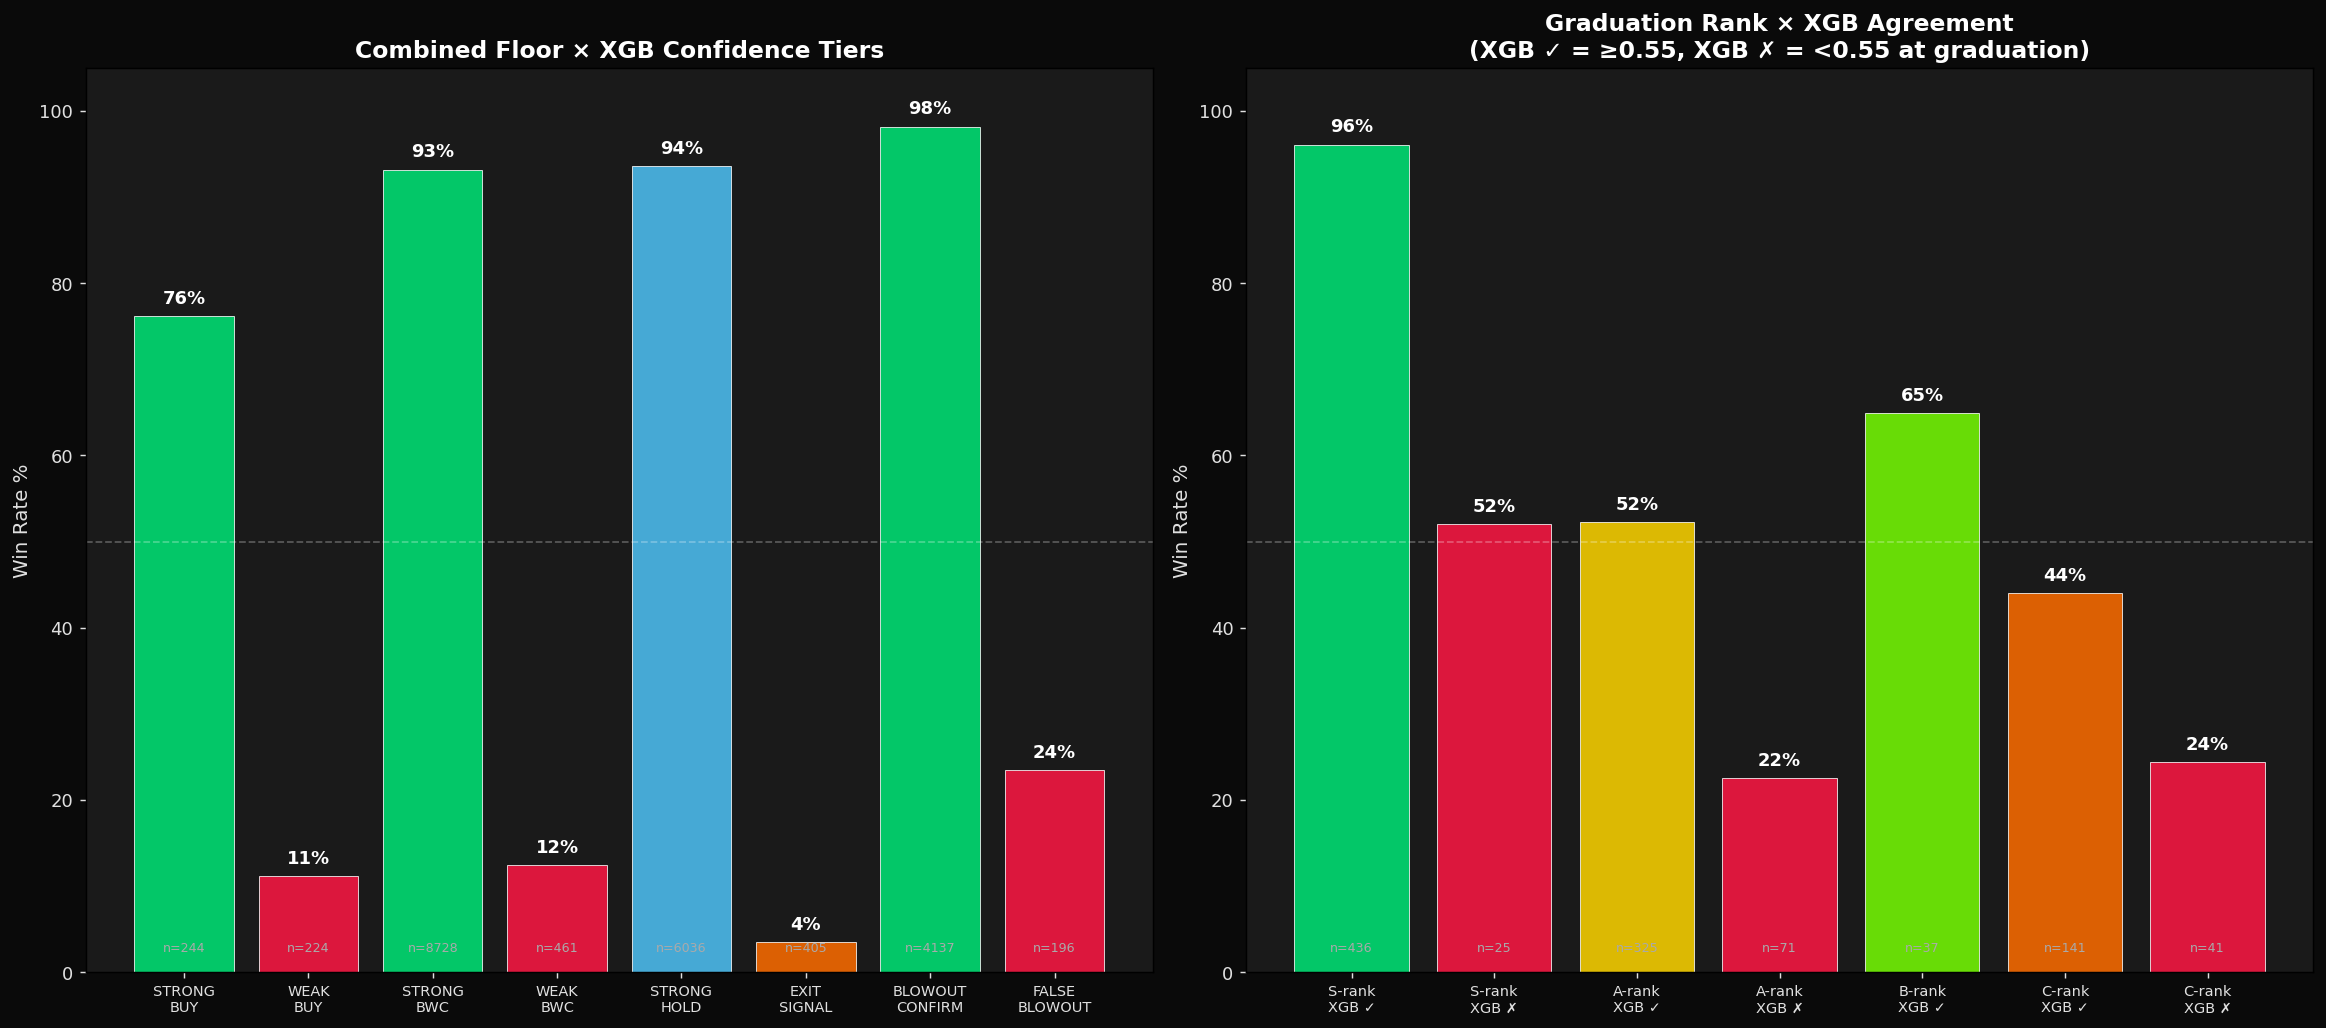
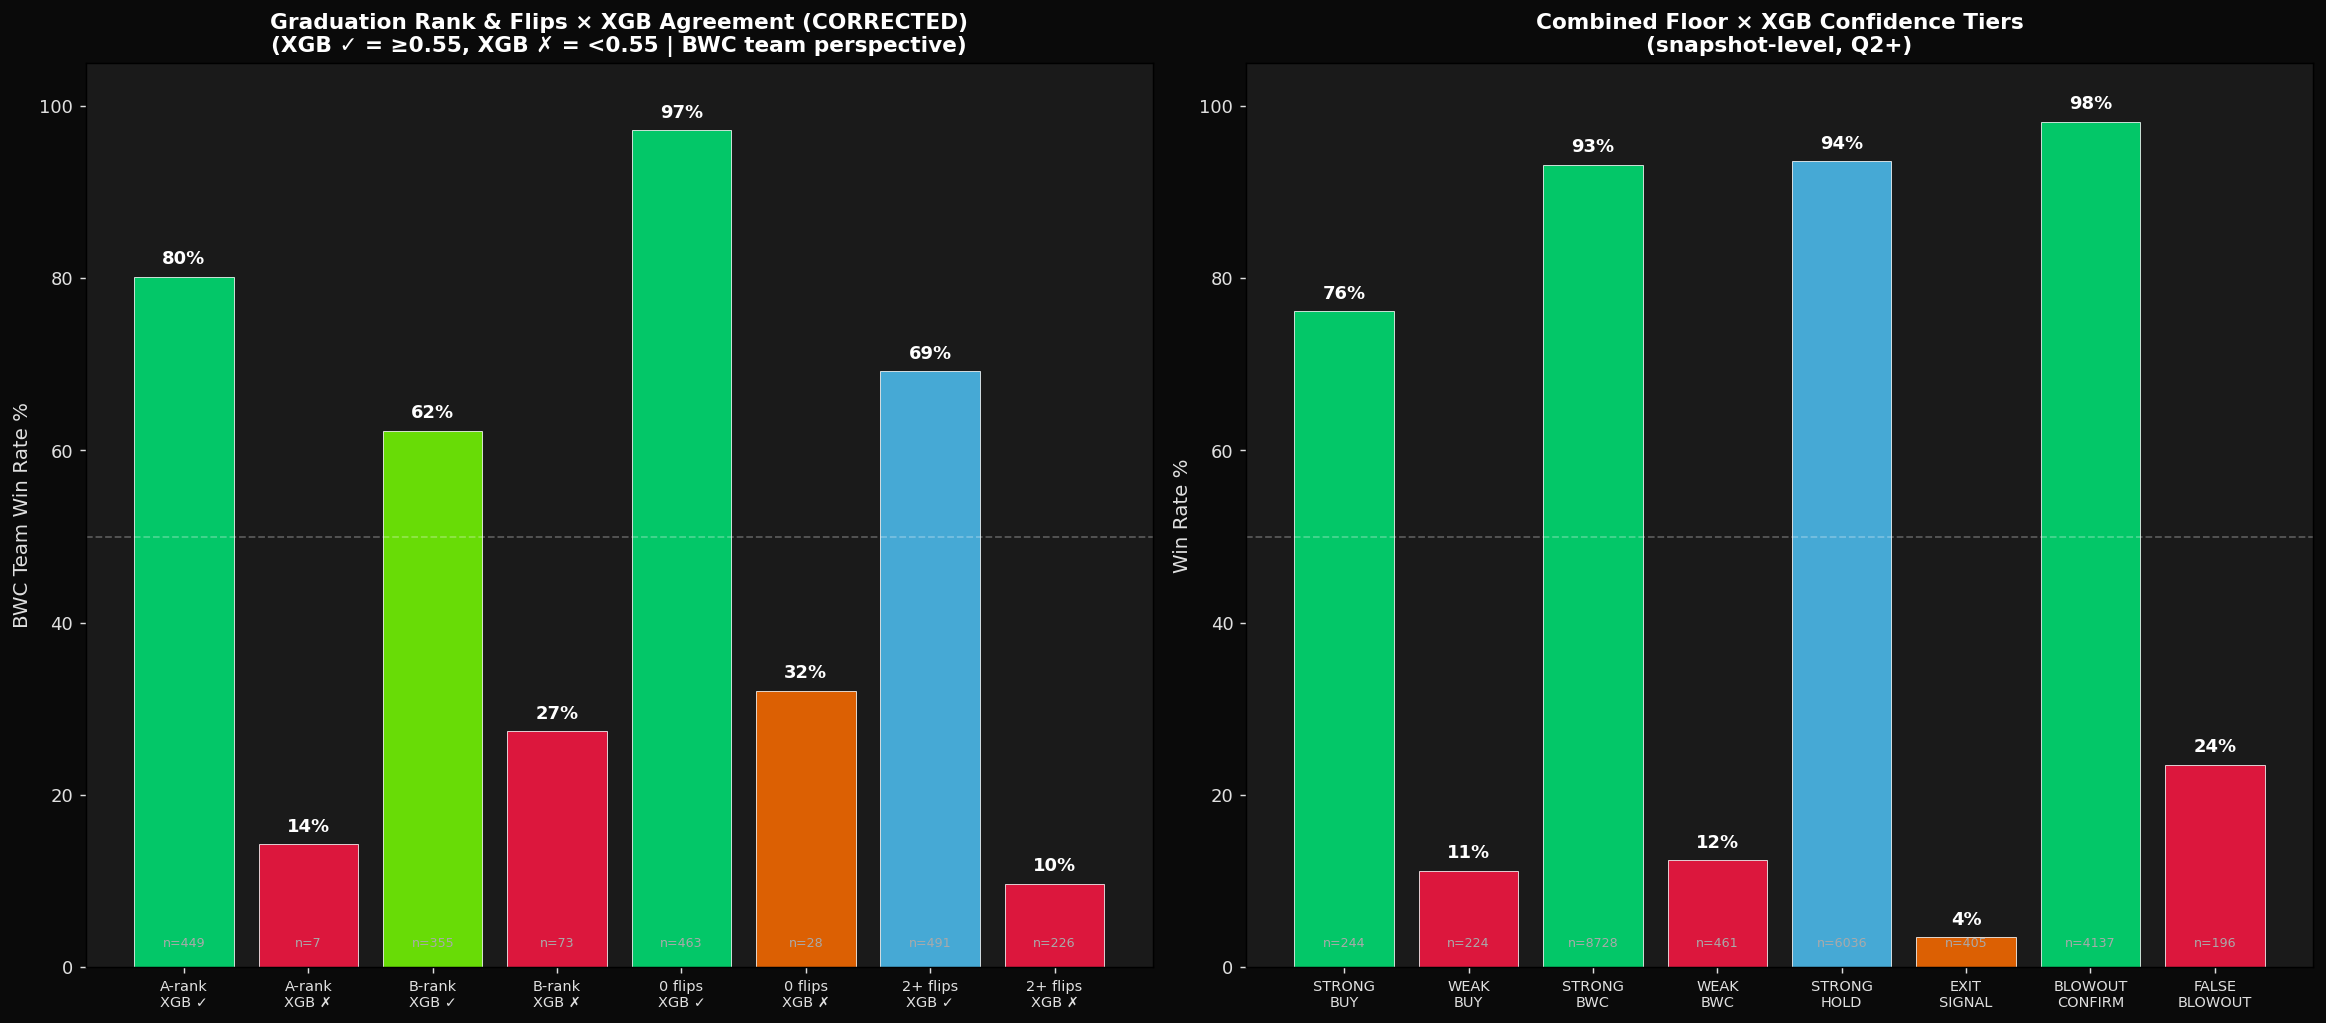
fix: corrected graduation × XGB analysis using real classifyBWCTier logic
Previous analysis used naive graduation simulation that produced wrong tier
labels (A-rank at 47% vs actual 78-92%). Recomputed using real BWC tier
classification from backtest function. Updated README, spec, and viz2.

Key corrected numbers:
- A-rank: XGB≥0.55 = 80.2% vs XGB<0.55 = 14.3% (n=7, small sample)
- B-rank: XGB≥0.55 = 62.3% vs XGB<0.55 = 27.4% (n=73)
- 0 flips: 97.2% vs 32.1%
- 2+ flips: 69.2% vs 9.7% (n=717, strongest split)

Note: graduation label discrepancy vs backtest report remains — live
system labels needed for Phase 2 gate validation.

diff --git a/data-discovery/xgboost-apr27/README.md b/data-discovery/xgboost-apr27/README.md
@@ -28,13 +28,32 @@ XGB confidence splits BUY-eligible snapshots dramatically:
 - **EXIT SIGNAL** (floor ≥ 0.60, XGB < 0.40, Q3+): **3.5%** (205 games)
 - **STRONG BWC** (both ≥ 0.65, leading): **93.2%** (1,187 games)
 
-### 3. Graduation Enhancement
-- S-rank + XGB ≥ 0.55: **96.1%** → S-rank + XGB < 0.55: **52.0%**
-- A-rank + XGB ≥ 0.55: **52.3%** → A-rank + XGB < 0.55: **22.5%**
-- 0 flips + XGB ≥ 0.55: **97.5%** → 0 flips + XGB < 0.55: **4.8%** (catches 20/21 "impossible losses")
+### 3. Graduation Enhancement (CORRECTED — BWC team perspective)
+
+**Note:** Graduation labels were recomputed using the real `classifyBWCTier` logic (DOMINANT + lead≥8 + 4 holds + ≤1 opp indicator = A). Numbers track the BWC team (first team to fire), not the ctrl team at each snapshot. Sample sizes on A-rank XGB<0.55 are small (n=7) — treat as directional, validate with live data.
+
+**A-rank peak:**
+- XGB ≥ 0.55: **80.2%** (n=449) → XGB < 0.55: **14.3%** (n=7, small sample)
+
+**B-rank peak (where XGB adds most value):**
+- XGB ≥ 0.55: **62.3%** (n=355) → XGB < 0.55: **27.4%** (n=73)
+
+**Zero flips:**
+- XGB ≥ 0.55: **97.2%** (n=463) → XGB < 0.55: **32.1%** (n=28)
+
+**2+ flips (biggest split — 717 games):**
+- XGB ≥ 0.55: **69.2%** (n=491) → XGB < 0.55: **9.7%** (n=226)
+
+**C→A graduation × XGB confidence tiers:**
+- XGB 70-80%: 72.7% (n=44), XGB 80%+: 81.7% (n=372)
+
+**C→B graduation × XGB confidence tiers:**
+- XGB <40%: 23.1% (n=13), XGB 60-70%: 60.6% (n=94), XGB 70-80%: 69.0% (n=100)
+
+**Discrepancy note:** Backtest tier journey reports C→A at 92.3% (n=842), our replication gets 78.7% (n=437). The backtest's graduation logic has checkpoint coverage and hold counting nuances not fully captured in the exported snapshot data. Exact graduation × XGB thresholds should be validated with live system graduation labels.
 
 ### 4. Shift Detection
-XGB dropped below 0.50 before the floor in **100%** of games where the ctrl team lost (365/365). Average lead time: 30.5 minutes.
+XGB dropped below 0.50 before the floor in **100%** of games where the ctrl team lost (365/365). Average lead time: 30.5 minutes. (Note: floor by design can't drop below 0.50 for the ctrl team — it flips instead. So this measures XGB catching decay before the flip happens.)
 
 ### 5. Trailing Team Accuracy
 When floor says BUY (≥ 0.65) and team is trailing:
@@ -67,6 +86,7 @@ I3 (Shot Quality) and I5 (Momentum) rank lowest among indicators.
 - XGB is trained on cumulative stats — same anchoring problem as floor, partially mitigated by game_progress feature
 - Backtest uses in-sample model predictions (not OOF) for game replays — live performance may differ
 - 1,235 games is strong but playoffs-only would be a useful subsample
+- Graduation × XGB has a labeling discrepancy: our replication of `classifyBWCTier` produces different tier distributions than the backtest tier journey report (437 C→A vs 842 C→A). Checkpoint coverage, hold counting, or conv_tier mapping differences likely cause this. Live system graduation labels will provide ground truth for Phase 2 gate thresholds
 
 ## Next Steps
 

diff --git a/data-discovery/xgboost-apr27/XGB_INTEGRATION_SPEC.md b/data-discovery/xgboost-apr27/XGB_INTEGRATION_SPEC.md
@@ -15,7 +15,7 @@ The floor score is a hand-crafted composite of five indicators (I1-I5) that meas
 
 **B. Structural shift detection.** In 100% of games where the control team lost (365/365), XGBoost dropped below 0.50 before the floor recognized the shift. The floor can't drop below 0.50 for the ctrl team by design — it just eventually flips. XGBoost sees the decay in raw stats before the indicator composites cross their thresholds.
 
-**C. Graduation validation.** S-rank drops from 96.1% to 52.0% when XGBoost disagrees. Zero-flip games drop from 97.5% to 4.8%. A-rank splits 52.3% / 22.5%. The graduation system identifies process consistency; XGBoost validates whether that consistency reflects genuine structural quality or inflated indicators.
+**C. Graduation validation.** A-rank peak with XGB agreement is 80.2%; without it, 14.3% (small sample, n=7). B-rank splits 62.3% / 27.4% (n=73 disagreements). Zero-flip games split 97.2% / 32.1%. The biggest actionable split: 2+ flip games go from 69.2% (XGB agrees) to 9.7% (XGB disagrees) across 717 games. The graduation system identifies process consistency; XGBoost validates whether that consistency reflects genuine structural quality or inflated indicators. Exact graduation × XGB thresholds need validation with live system graduation labels — our backtest replication has a labeling discrepancy vs the tier journey report.
 
 ---
 
@@ -160,7 +160,7 @@ Based on backtest findings, these are the gates to evaluate once live data confi
 | BWC (leading) | XGB < 0.40 → hard suppress | 6.1% win rate |
 | EXIT | XGB < 0.40 + Q3+ → fire XGB_EXIT_WARNING | 3.5% win rate (EXIT SIGNAL tier) |
 | POSITION_SAFE | XGB < 0.50 → suppress reassurance | Don't confirm a position XGB doubts |
-| Graduation | XGB < 0.55 at graduation → cap at B-rank | S-rank drops to 52%, A-rank to 22.5% |
+| Graduation | XGB < 0.55 at graduation → downgrade confidence | B-rank drops to 27.4%, 2+ flips to 9.7%. A-rank sample too small (n=7) for hard gate — validate live |
 
 **These gates are NOT implemented in the advisory phase.** They're documented here as the spec for promotion. The learning agent accumulates the data to validate each gate threshold.
 
